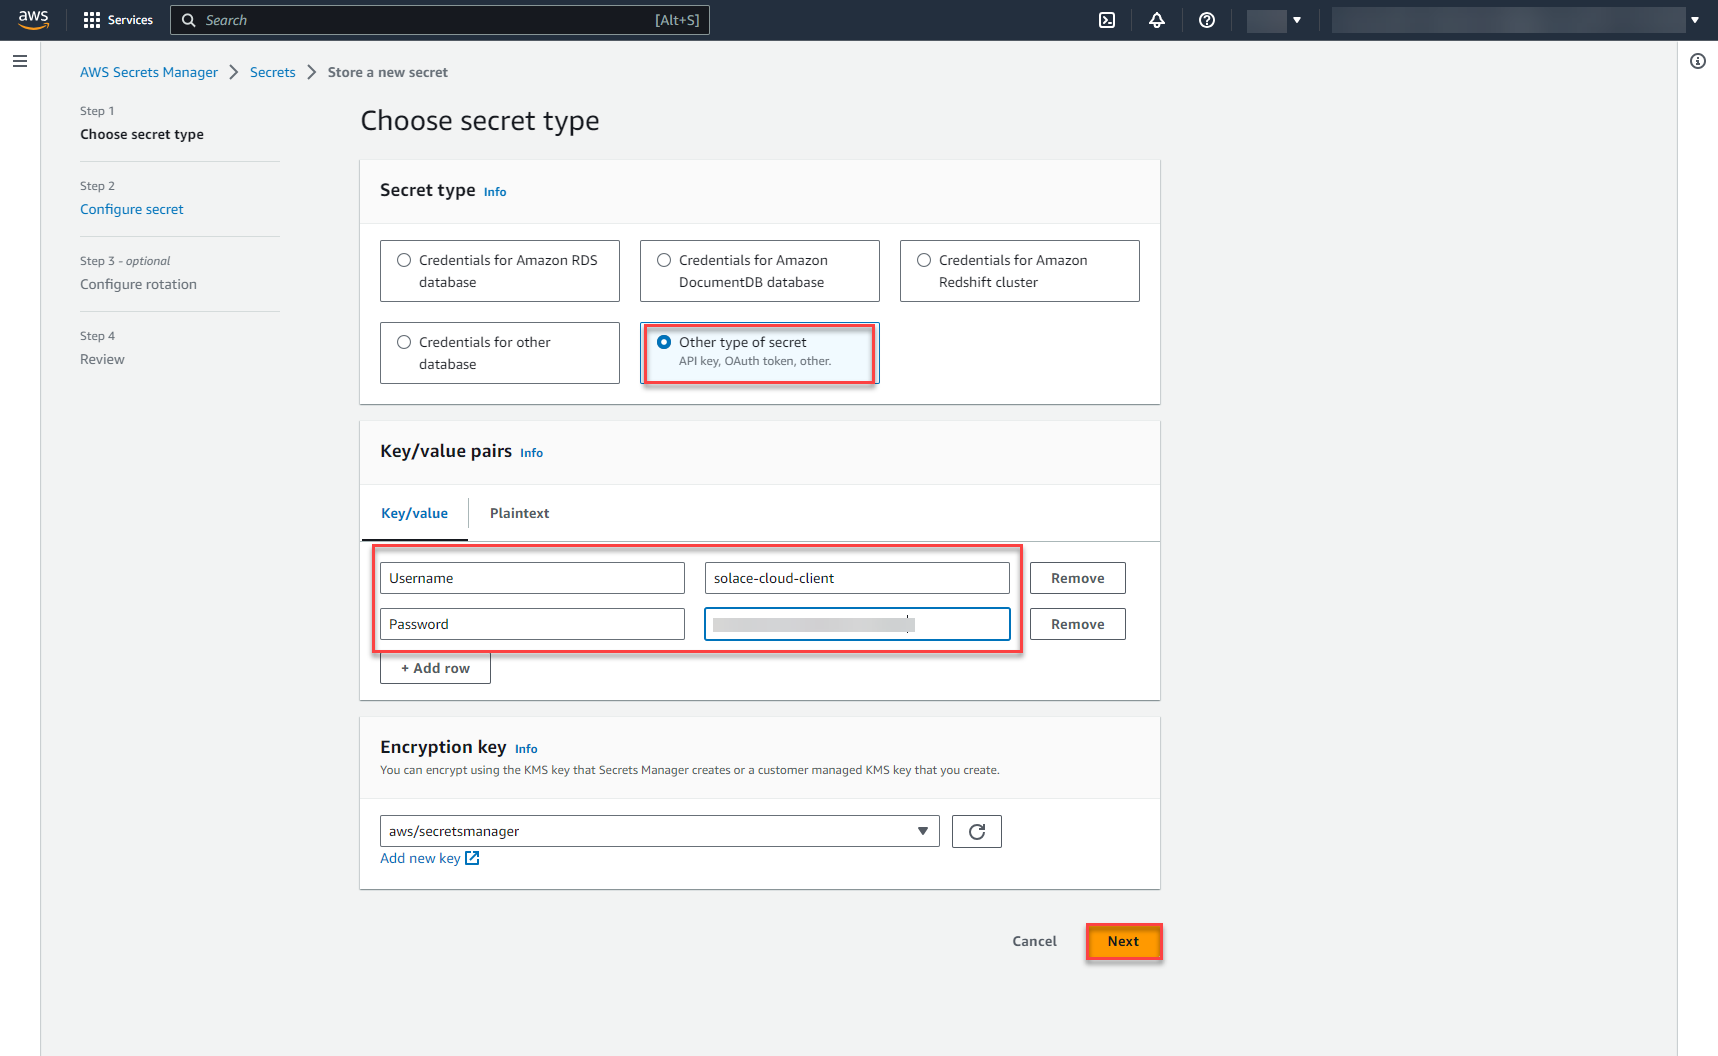
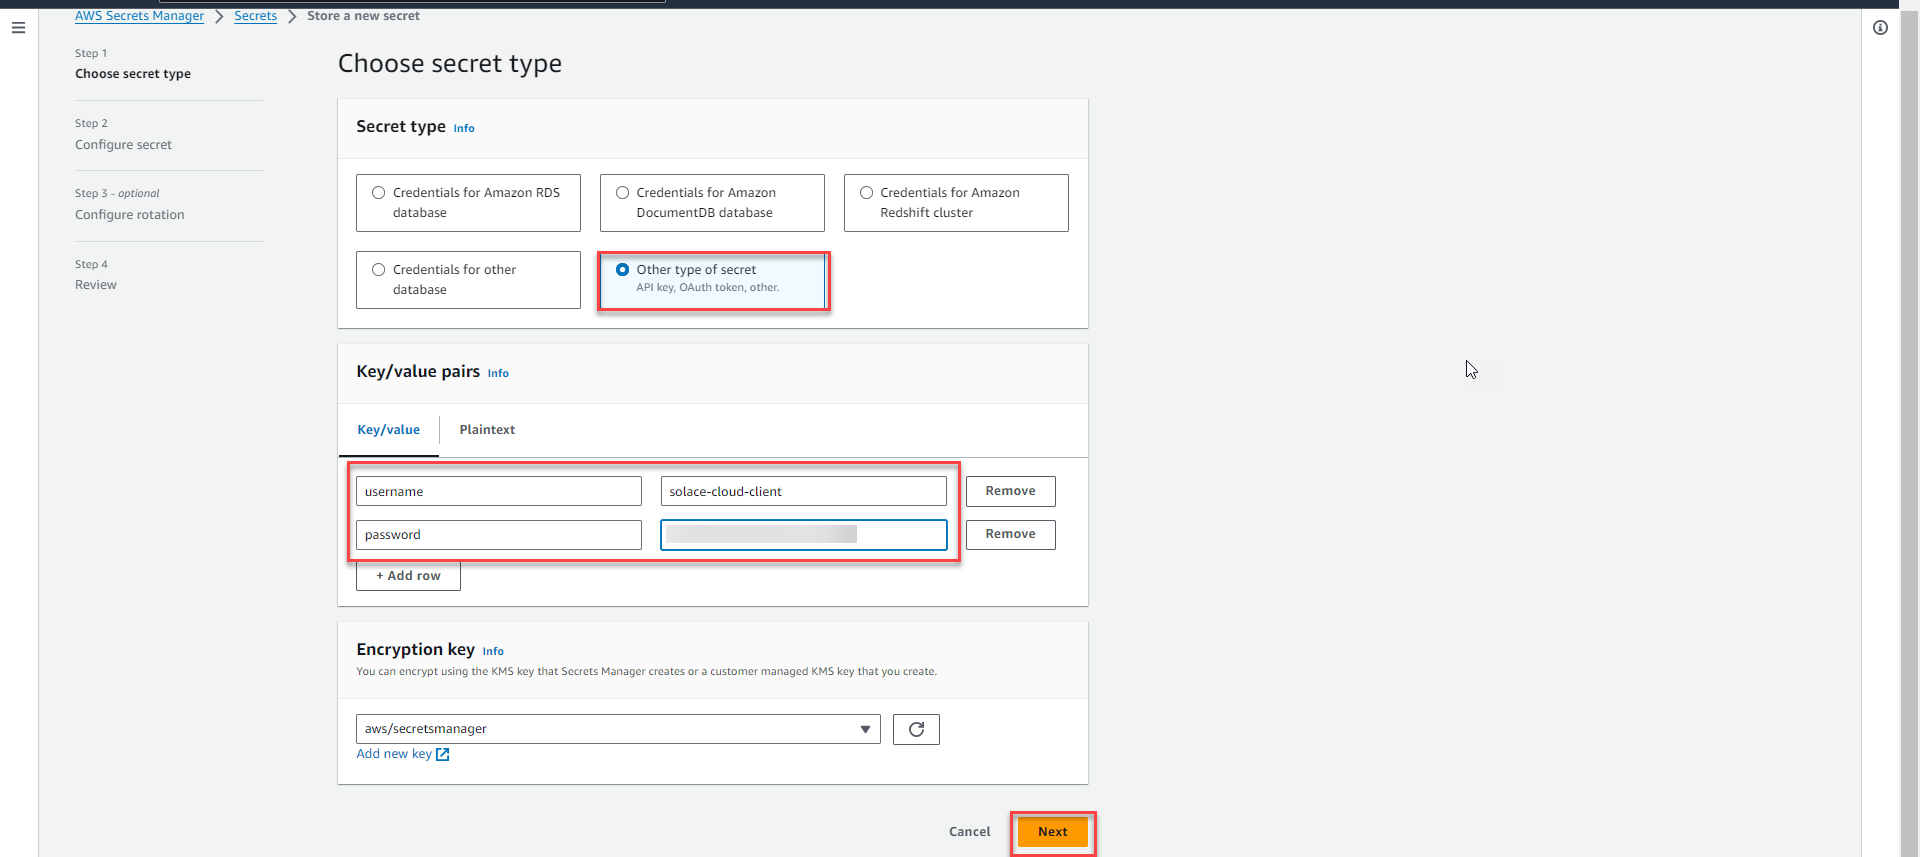
added aem-rest-url and updated secret key steps

diff --git a/documentation/Step5-Setup-AWS/README.md b/documentation/Step5-Setup-AWS/README.md
@@ -81,6 +81,8 @@ The following are the two SAP Environment variables:
 * `SAP_AEM_CREDENTIALS` (example: arn:aws:secretsmanager://region/account/secret:sapemauth-pnyaRN)
 * `SAP_AEM_REST_URL` (example: https://mr-connection-giuyy7qx0z1.messaging.solace.cloud:9443/topic)
 
+### For SAP_AEM_CREDENTIALS follow the steps below
+
 1. The values for these variables needs to be stored in the **AWS Secrets Manager**. Go to your **AWS account** and search for **secret**, choose **Secrets Manager**
 
  ![plot](./images/aws-secret.png)
@@ -101,7 +103,7 @@ The following are the two SAP Environment variables:
 
 ![plot](./images/create-secret-1.png)
 
-6. Choose **Other type of secret** option under **Secret type**. Add two key-value pairs as **UserName and Password** and Paste the values copied from **Advanced Event Mesh Application**. Click on **Next**
+6. Choose **Other type of secret** option under **Secret type**. Add two key-value pairs as `username` and `password` and Paste the values copied from **Advanced Event Mesh Application**. Click on **Next**
 
 ![plot](./images/secret-keys.png)
 
@@ -112,6 +114,18 @@ The following are the two SAP Environment variables:
 8. Click on the created secret and copy the Secret ARN value.
 
 ![plot](./images/secret-arn.png)
+
+### For SAP_AEM_REST_URL follow the steps below.
+
+1. Go to your Advanced Event Mesh Application, and from the **Connect** Tab, copy the **Secured REST Host**
+
+   ![plot](./images/aem-rest-url-1.png)
+
+2. You have previously created a topic subscription named `monitron/messages`
+
+   ![plot](./images/aem-rest-url-2.png)
+
+So, the **SAP_AEM_REST_URL** is `Secured_REST_Host`/monitron/messages. 
 
 
 So your `appConfig.json` file looks as shown below: Fill all the details by following the steps mentioned above. 
